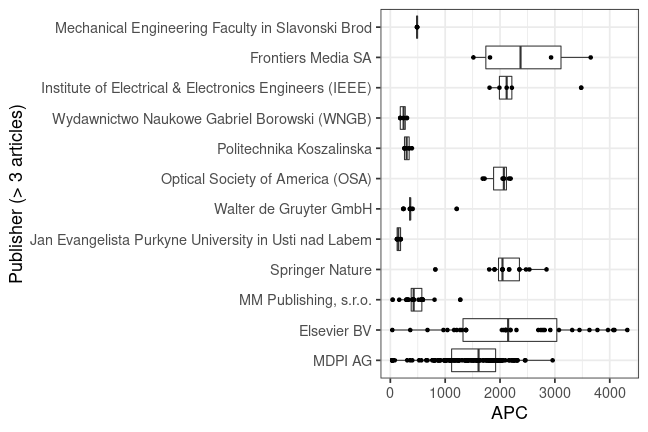
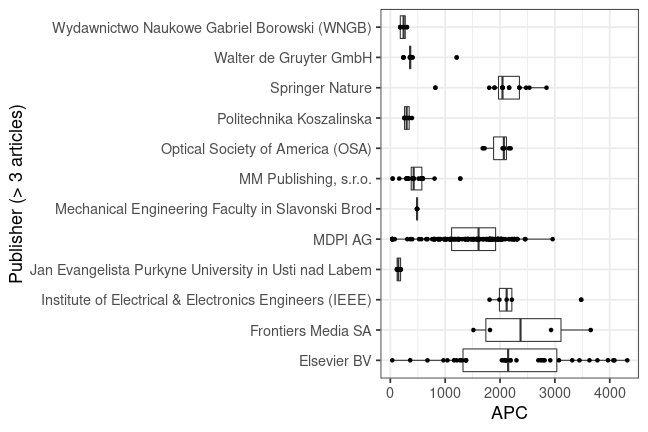
update: ostrava apc 2022

diff --git a/_posts/2023-03-02-ostrava.md b/_posts/2023-03-02-ostrava.md
@@ -30,56 +30,25 @@ The following table provides an overview:
 
 |                                                              | Articles| Fees paid in EURO| Mean Fee paid|
 |:-------------------------------------------------------------|--------:|-----------------:|-------------:|
-|MDPI AG                                                       |      194|            289566|          1493|
-|Elsevier BV                                                   |       34|             76909|          2262|
-|MM Publishing, s.r.o.                                         |       32|             15174|           474|
-|Springer Nature                                               |       15|             31498|          2100|
-|Jan Evangelista Purkyne University in Usti nad Labem          |        9|              1383|           154|
-|Walter de Gruyter GmbH                                        |        9|              3899|           433|
-|Optical Society of America (OSA)                              |        7|             13946|          1992|
-|Politechnika Koszalinska                                      |        7|              2154|           308|
-|Wydawnictwo Naukowe Gabriel Borowski (WNGB)                   |        7|              1634|           233|
-|Institute of Electrical & Electronics Engineers (IEEE)        |        5|             11613|          2323|
-|Frontiers Media SA                                            |        4|              9915|          2479|
-|Mechanical Engineering Faculty in Slavonski Brod              |        4|              1951|           488|
-|ASTES Journal                                                 |        3|              1399|           466|
-|Hindawi Publishing Corporation                                |        3|              6668|          2223|
-|KIPS-CSWRG                                                    |        3|             10876|          3625|
-|TU Kosice                                                     |        3|               605|           202|
-|Wiley-Blackwell                                               |        3|              9753|          3251|
-|Informa UK Limited                                            |        2|              4486|          2243|
-|Institute of Rock Structure and Mechanics, AS CR              |        2|              1355|           678|
-|Public Library of Science (PLoS)                              |        2|              3422|          1711|
-|World Scientific Pub Co Pte Lt                                |        2|              4249|          2124|
+|MDPI AG                                                       |       60|             83817|          1397|
+|Elsevier BV                                                   |       16|             37226|          2327|
+|MM Publishing, s.r.o.                                         |        5|              2947|           589|
+|Politechnika Koszalinska                                      |        5|              1467|           293|
+|Springer Nature                                               |        5|             11886|          2377|
+|Frontiers Media SA                                            |        2|              5470|          2735|
+|KIPS-CSWRG                                                    |        2|              7755|          3877|
+|Mechanical Engineering Faculty in Slavonski Brod              |        2|               975|           488|
 |4S go, s.r.o.                                                 |        1|               257|           257|
 |American Chemical Society (ACS)                               |        1|              1336|          1336|
 |American Institute of Mathematical Sciences (AIMS)            |        1|               951|           951|
 |Asociatia Carpatica de Mediu si Stiintele Pamantului          |        1|               182|           182|
-|Asociatia Geograhia Technica                                  |        1|               174|           174|
-|Association for Computing Machinery (ACM)                     |        1|              1302|          1302|
 |Centre of Sociological Research, NGO                          |        1|               702|           702|
-|Copernicus GmbH                                               |        1|              1677|          1677|
-|Desalination Publications                                     |        1|               145|           145|
-|EDP Sciences                                                  |        1|               101|           101|
-|Estonian Academy Publishers                                   |        1|               605|           605|
-|F1000 Research, Ltd.                                          |        1|               795|           795|
-|Future Science, LTD                                           |        1|              1755|          1755|
-|Inderscience Publishers                                       |        1|              1108|          1108|
 |Institut Za Lokalno Samoupravo in Javna Narocila Maribor      |        1|               198|           198|
+|Institute of Electrical & Electronics Engineers (IEEE)        |        1|              3480|          3480|
+|Institute of Rock Structure and Mechanics, AS CR              |        1|               965|           965|
 |Instytut Badan Gospodarczych / Institute of Economic Research |        1|               485|           485|
-|IOP Publishing                                                |        1|               230|           230|
 |ISMA SYC INT                                                  |        1|              1876|          1876|
-|Ital Publication                                              |        1|               381|           381|
-|Longdom Group                                                 |        1|              1838|          1838|
-|Nofer Institute of Occupational Medicine                      |        1|                97|            97|
-|Oxford University Press (OUP)                                 |        1|              1716|          1716|
-|Polish Academy of Sciences                                    |        1|               302|           302|
-|Polskie Naukowo-Techniczne Towarzystwo Eksploatacyjne         |        1|               496|           496|
-|Polskie Towarzystwo Przeróbki Kopalin                         |        1|               468|           468|
-|SAGE Publications                                             |        1|               888|           888|
-|Trans Tech Publications, Ltd.                                 |        1|               605|           605|
-|Versita, Warsaw                                               |        1|               302|           302|
-|Wydawnictwo SIGMA-NOT, sp. z.o.o.                             |        1|               363|           363|
+|Public Library of Science (PLoS)                              |        1|              2036|          2036|
 
 ## Overview
 
